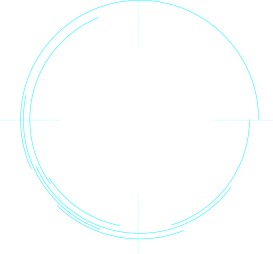
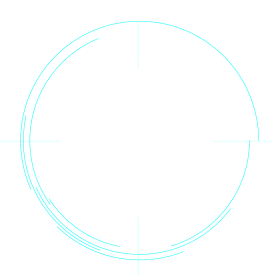
更新loading

diff --git a/src/style/modules/loading.less b/src/style/modules/loading.less
@@ -6,44 +6,52 @@
     text-align: center;
     top: 0;
     left: 0;
-    // line-height: 90vh;
     z-index: 99;
-    background-color: #f5e7da;
+    background-color: #000;
+    overflow: hidden;
 
-    .movie {
+    .wrapper {
+        @url1: '../assets/img/common/loading/1.png';
+        @url2: '../assets/img/common/loading/2.png';
+
+        position: relative;
+        width: image-width(@url1);
         margin: 30vh auto 0 auto;
-        width: 80px;
-        height: 143px;
-        background-image: url('../assets/img/common/loading/sprite.jpg');
-    }
 
-    .progress {
-        height: 3px; /*no*/
-        width: 32vw;
-        border: 1px solid #d7b48c; /*no*/
-        background-color: #fff;
-        position: absolute;
-        bottom: 20px; /*no*/
-        left: 34vw;
-        text-align: center;
-    }
+        > div {
+            position: absolute;
+            top: 0;
+            left: 0;
+        }
 
-    .text {
-        position: absolute;
-        width: 100%;
-        height: 20px;
-        bottom: 30px; /*no*/
-        font-size: 12px;
+        .circle {
+            width: image-width(@url1);
+            height: image-height(@url1);
+            background-image: data-uri(@url1);
+            background-size: contain;
+        }
 
-        span {
-            color: #d7b48c;
-            font-size: 10px; /*no*/
+        .progress {
+            width: image-width(@url2);
+            height: image-height(@url2);
+            background-image: data-uri(@url2);
+            background-size: contain;
+            animation: kf-rotate 1s linear infinite;
         }
     }
 
-    .line {
-        height: 3px; /*no*/
-        width: 0%;
-        background-color: #d7b48c;
+    .text {
+        top: 30vh;
+        position: relative;
+        color: #fff;
+
+        h1 {
+            font-weight: normal;
+            font-size: 16px; /*no*/
+        }
+
+        span {
+            font-size: 14px; /*no*/
+        }
     }
 }

diff --git a/src/js/app/loader.js b/src/js/app/loader.js
@@ -4,10 +4,9 @@ define([
     'jquery',
     'createjs',
     'utils/utils',
-    'utils/frameplayer',
     'text!../components/loading.html!strip',
     'jquery.browser'],
-($, createjs, utils, frameplayer, htmlLoading) => {
+($, createjs, utils, htmlLoading) => {
     return (callback) => {
         // 如果小于ie9，则取消loading（createjs不支持）;
         if ($.browser.msie && $.browser.version < 9) {
@@ -25,37 +24,16 @@ define([
         let elLoading = null;
         var source = [
             { 'src': 'common/block/landscape.png' },
-            { 'src': 'common/loading/sprite.jpg' }
+            { 'src': 'common/loading/1.png' },
+            { 'src': 'common/loading/2.png' }
         ];
 
         loader.on('complete', onComplete);
         loader.loadManifest(source, true, 'assets/img/');
 
-        var t = null;
-
         function onComplete() {
             $('body').append(htmlLoading);
-
             elLoading = $('.sys-loading');
-
-            t = frameplayer({
-                target: elLoading.find('.movie'),
-                total: 66,
-                row: 10,
-                loop: true,
-                loopDelay: 0,
-                // loopTimes:3,
-                fps: 6,
-                scale: 2,
-                autosize: false,
-                onProgress(frame) {
-                    // console.log(frame);
-                }
-            });
-
-            // t.breakpoint(20);
-            t.play();
-
             mainload();
         }
 
@@ -79,7 +57,6 @@ define([
 
             function onComplete() {
                 setTimeout(() => {
-                    t.stop();
                     elLoading.fadeOut();
                     utils.tryFun(callback);
                 }, 10);

diff --git a/src/components/loading.html b/src/components/loading.html
@@ -8,9 +8,14 @@
 </head>
 <body>
     <div class="sys-loading">
-        <div class="movie"></div>
-        <div class="text"><span></span></div>
-        <div class="progress"><div class="line"></div></div>
+        <div class="wrapper">
+            <div class="circle"></div>
+            <div class="progress"></div>
+        </div>
+        <div class="text">
+            <h1>Loading</h1>
+            <span>0</span>
+        </div>
     </div>
 </body>
 </html>

diff --git a/src/style/modules/section1.less b/src/style/modules/section1.less
@@ -1,5 +1,11 @@
 .section1 {
     z-index: 50;
+    background-image: url('../assets/img/main/section1/bg.jpg');
+    background-size: 100% auto;
+    background-position: bottom;
+    background-repeat: no-repeat;
+    background-color: #000;
+    // max-width: 736px; /*no*/
 
     .btn {
         background-color: #fff;

diff --git a/src/style/modules/keyframes.less b/src/style/modules/keyframes.less
@@ -3,5 +3,5 @@
 // 360旋转
 @keyframes kf-rotate {
     from { transform: rotate(0deg); }
-    to { transform: rotate(360deg); }
+    to { transform: rotate(-360deg); }
 }
